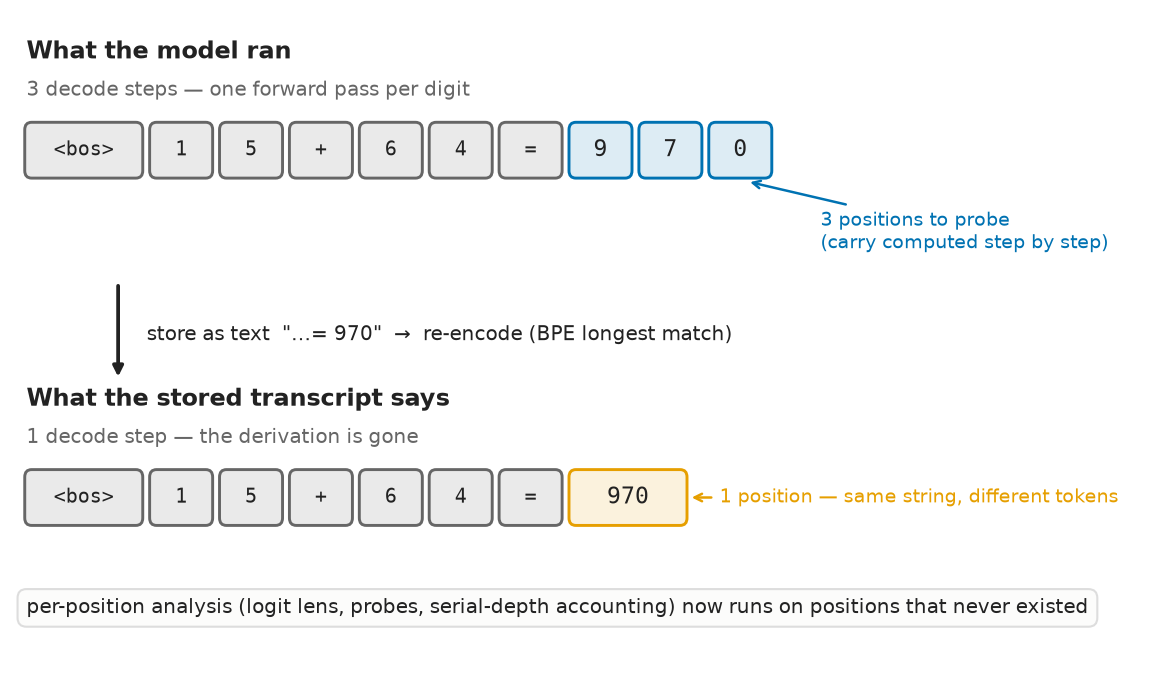
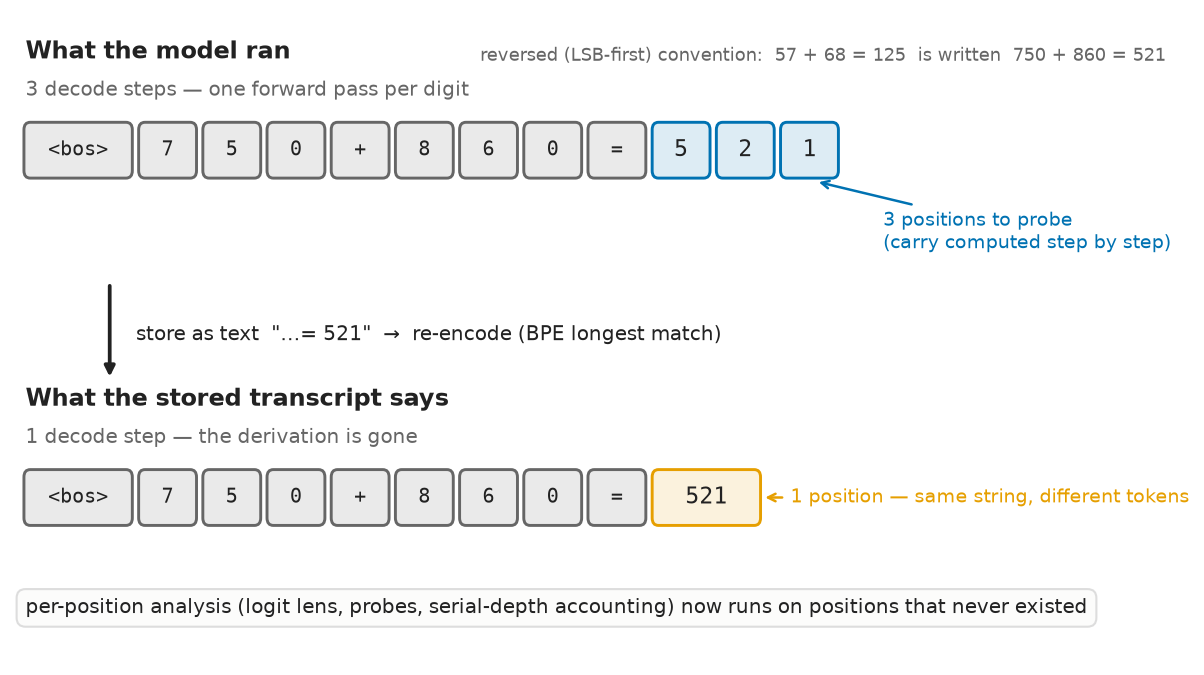
Fix the mechanism figure — it mixed digit orderings
The hero schematic showed "1 5 + 6 4 = 9 7 0": operands in normal reading order
but the answer reversed (LSB-first). Read either way that looks like an
arithmetic error — 15 + 64 = 79, not 970.

The task is LSB-first and zero-padded throughout, so the figure now uses the
exact stream encode_example() produces, asserted against it:

  CoT     <bos> 7 5 0 + 8 6 0 = 5 2 1 <eos>
  direct  <bos> 7 5 0 + 8 6 0 = [521] <eos>

and states the convention inline, which is the piece a reader needs in order not
to see a mistake.

Also switched 15+64 -> 57+68: the old example had no carry at all
(chain_len=0) while the figure annotates the answer positions "carry computed
step by step". 57+68=125 has chain_len=2, the maximum at 3 digits.

diff --git a/retok/figures.py b/retok/figures.py
@@ -423,6 +423,17 @@ def plot_mechanism(out_path: Path) -> None:
     ax.text(
         0.1, 4.85, "What the model ran", fontsize=11.5, color=INK, fontweight="bold"
     )
+    # Without this the digits look like an arithmetic error: everything is
+    # least-significant-digit-first and zero-padded to 3 digits, so 57 + 68 = 125
+    # is written 750 + 860 = 521.
+    ax.text(
+        4.42,
+        4.87,
+        "reversed (LSB-first) convention:  57 + 68 = 125  is written  750 + 860 = 521",
+        fontsize=8.6,
+        color=MUTED,
+        va="center",
+    )
     ax.text(
         0.1,
         4.55,
@@ -430,13 +441,13 @@ def plot_mechanism(out_path: Path) -> None:
         fontsize=9.5,
         color=MUTED,
     )
-    prompt = ["<bos>", "1", "5", "+", "6", "4", "="]
+    prompt = ["<bos>", "7", "5", "0", "+", "8", "6", "0", "="]
     x = 0.1
     for t in prompt:
         w = 0.52 + 0.12 * max(0, len(t) - 1)
         _token_box(ax, x, 3.9, w, t, MUTED, fontsize=9.5)
         x += w + 0.09
-    for t in ["9", "7", "0"]:
+    for t in ["5", "2", "1"]:
         _token_box(ax, x, 3.9, 0.52, t, BLUE)
         x += 0.61
     ax.annotate(
@@ -460,7 +471,7 @@ def plot_mechanism(out_path: Path) -> None:
     ax.text(
         1.15,
         2.62,
-        'store as text  "…= 970"  →  re-encode (BPE longest match)',
+        'store as text  "…= 521"  →  re-encode (BPE longest match)',
         fontsize=9.5,
         color=INK,
         va="center",
@@ -486,7 +497,7 @@ def plot_mechanism(out_path: Path) -> None:
         w = 0.52 + 0.12 * max(0, len(t) - 1)
         _token_box(ax, x, 1.1, w, t, MUTED, fontsize=9.5)
         x += w + 0.09
-    _token_box(ax, x, 1.1, 1.0, "970", ORANGE)
+    _token_box(ax, x, 1.1, 1.0, "521", ORANGE)
     ax.annotate(
         "1 position — same string, different tokens",
         xy=(x + 1.02, 1.31),
